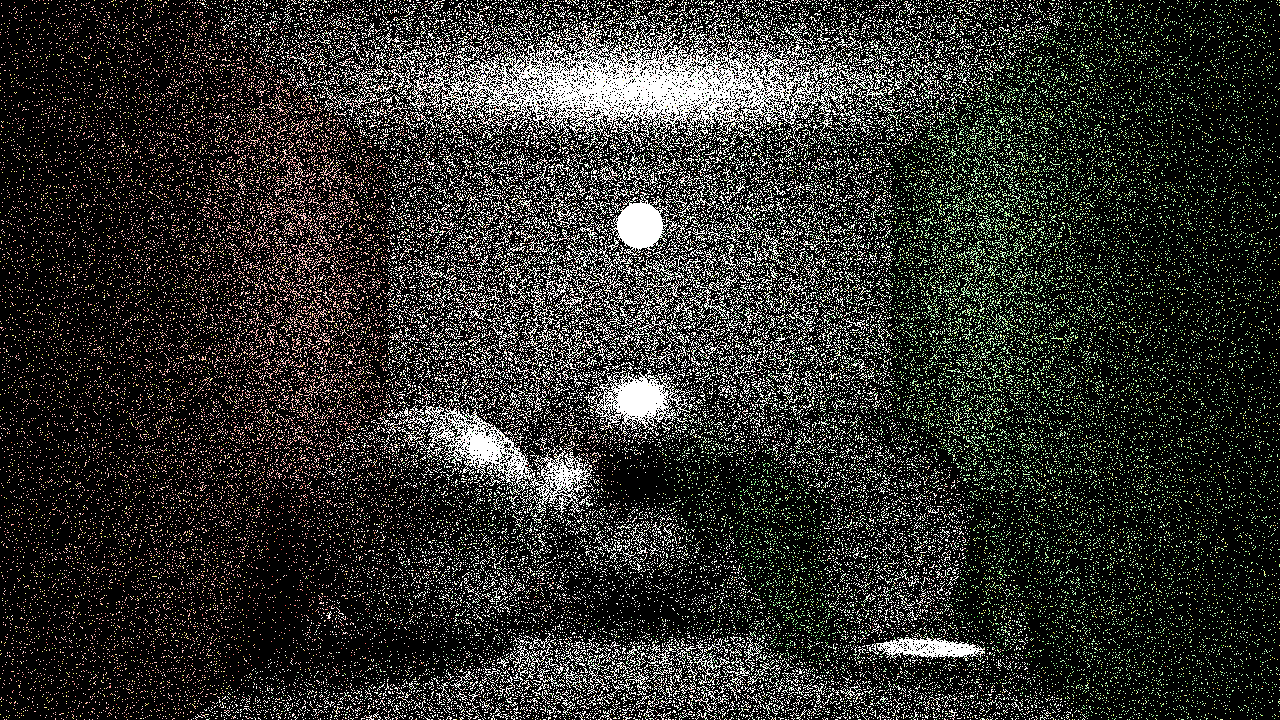
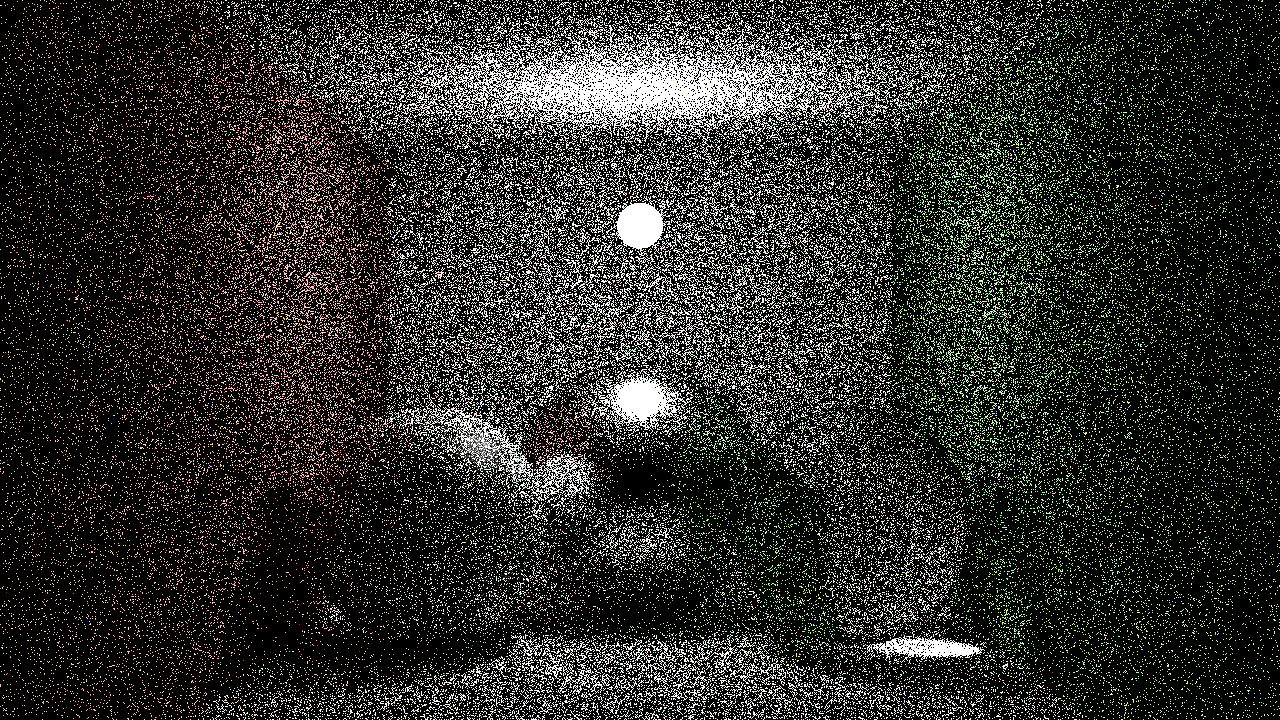
Simplified prob logic to just be PDF / 4.0

Changed region(s): [[0.0, 0.0, 1.0, 1.0]]

diff --git a/src/materials.h b/src/materials.h
@@ -271,14 +271,10 @@ public:
                 return false;
 
             const float pdfH{ ((alpha + 1) / (2.0f * Pi<float>())) * powf(cosTheta, alpha) };
-            si.prob = pdfH / (4.0f * sInfo.V().Dot(h));
-            //si.prob = pdfH * 4.0f;
+            si.prob = pdfH / 4.0f;
             const float specNorm{ (alpha + 2.0f) / (8.0f * Pi<float>()) };
             const float fresnelFactor{ powf(1.0f - sInfo.V().Dot(h), 5.0f) };
-            //const float fresnelReflectionAmount{ fresnelRatio + (1.0f - fresnelRatio) * fresnelFactor };
-            const Color F{ specularColor + (Color{ 1.0f } - specularColor) * fresnelFactor };
-            //si.mult = ((fresnelReflectionAmount * specularColor * specNorm * powf(nDotH, alpha)) / dir.Dot(sInfo.N())) / specularProb;
-            //si.mult = ((F * specNorm * powf(nDotH, alpha)) / dir.Dot(sInfo.N())) / (sInfo.N().Dot(dir) * sInfo.N().Dot(sInfo.V())) / specularProb;
+            const Color F{ reflection.GetValue() + (Color{ 1.0f } - reflection.GetValue()) * fresnelFactor };
             si.mult = ((F * specNorm * powf(nDotH, alpha)) / dir.Dot(sInfo.N())) / specularProb;
 
             return true;
@@ -310,12 +306,6 @@ public:
             const Vec3f h{ (x * u) + (y * v) + (cosTheta * N) };
             const float vDotH{ sInfo.V().Dot(h) };
 
-            const float roughness = sqrtf(2.0f / (alpha + 2.0f));
-            const float k1{ (roughness * roughness) / 2.0f };
-            const auto G1{ [&](float nDotX) {
-                return nDotX / (nDotX * (1.0f - k1) + k1);
-            }};
-            const float D{ ((alpha + 2.0f) / (2.0f * Pi<float>())) * powf(cosTheta, alpha) };
             const float pdfH{ ((alpha + 1.0f) / (2.0f * Pi<float>())) * powf(cosTheta, alpha) };
 
             const float k{ 1.0f - eta * eta * (1.0f - vDotH * vDotH) };
@@ -326,13 +316,9 @@ public:
                 if (dirDotN * vDotN < 0.0f)
                     return false;
 
-                const float G{ G1(std::abs(vDotN) * G1(std::abs(dirDotN))) };
-                const float numerator{ D * G };
-                const float denominator{ 4.0f * std::abs(vDotN) * std::abs(dirDotN) };
-                const float bsdfVal{ numerator / denominator };
-
-                si.prob = pdfH / (4.0f * std::abs(vDotH));
-                si.mult = (Color{ 1.0f } * bsdfVal) / transmissiveProb;
+                si.prob = pdfH / 4.0f;
+                const float specNorm{ (alpha + 2.0f) / (8.0f * Pi<float>()) };
+                si.mult = ((transmissiveColor * specNorm * powf(N.Dot(h), alpha)) / dirDotN) / transmissiveProb;
 
                 return true;
             }
@@ -342,26 +328,14 @@ public:
             const float absCosTheta{ std::abs(N.Dot(dir)) };
             if (absCosTheta < 1e-5f) return false;
 
-            const float dirDotH{ dir.Dot(h) };
             const float dirDotN{ dir.Dot(N) };
 
-            const float jacobianDenomRoot{ (etaI * vDotH) + (etaT * dirDotH) };
-            const float jacobian{ (etaT * etaT * std::abs(dirDotH)) / (jacobianDenomRoot * jacobianDenomRoot) };
-
             const float fresnelReflectionAmount{ fresnelRatio + (1.0f - fresnelRatio) * powf(1.0f - vDotH, 5.0f) };
-            const float transFactor{ 1.0f - fresnelReflectionAmount };
+            const float transmissionFactor{ 1.0f - fresnelReflectionAmount };
 
-            const float G{ G1(std::abs(vDotN)) * G1(std::abs(dirDotN)) };
-            const float numerator{ transFactor * D * G * (etaT * etaT) * std::abs(vDotH) * std::abs(dirDotH) };
-            const float denominator{ (jacobianDenomRoot * jacobianDenomRoot) * std::abs(vDotN) * std::abs(dirDotN) };
-            const float bsdfVal{ numerator / denominator };
-
-            si.prob = pdfH * jacobian;
-            //si.prob = pdfH / (4.0f * vDotH);
-            //si.prob = pdfH / 4.0f;
-            //const float specNorm{ (alpha + 2.0f) / (8.0f * Pi<float>()) };
-            //si.mult = ((transmissiveColor * specNorm * powf(N.Dot(h), alpha)) / dirDotN) / transmissiveProb;
-            si.mult = (transmissiveColor * bsdfVal) / transmissiveProb;
+            si.prob = pdfH / 4.0f;
+            const float specNorm{ (alpha + 2.0f) / (8.0f * Pi<float>()) };
+            si.mult = ((transmissionFactor * transmissiveColor * specNorm * powf(N.Dot(h), alpha)) / dirDotN) / transmissiveProb;
 
             return true;
         }
